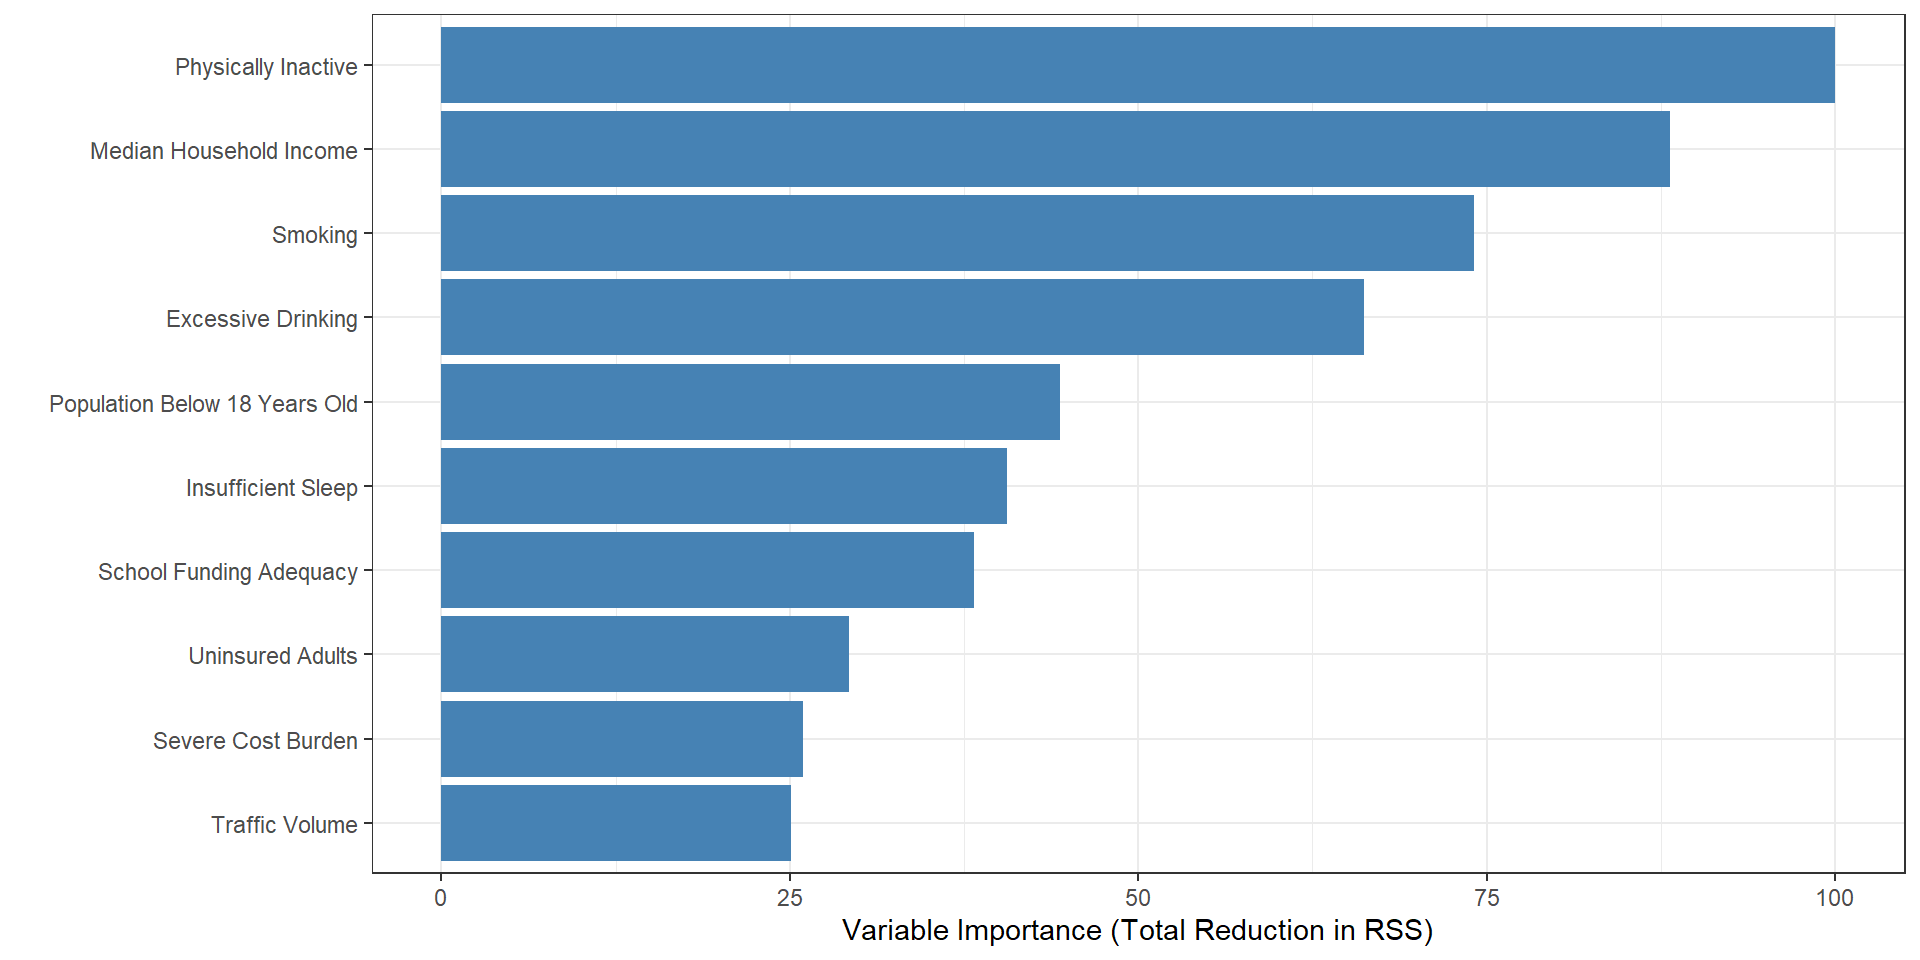
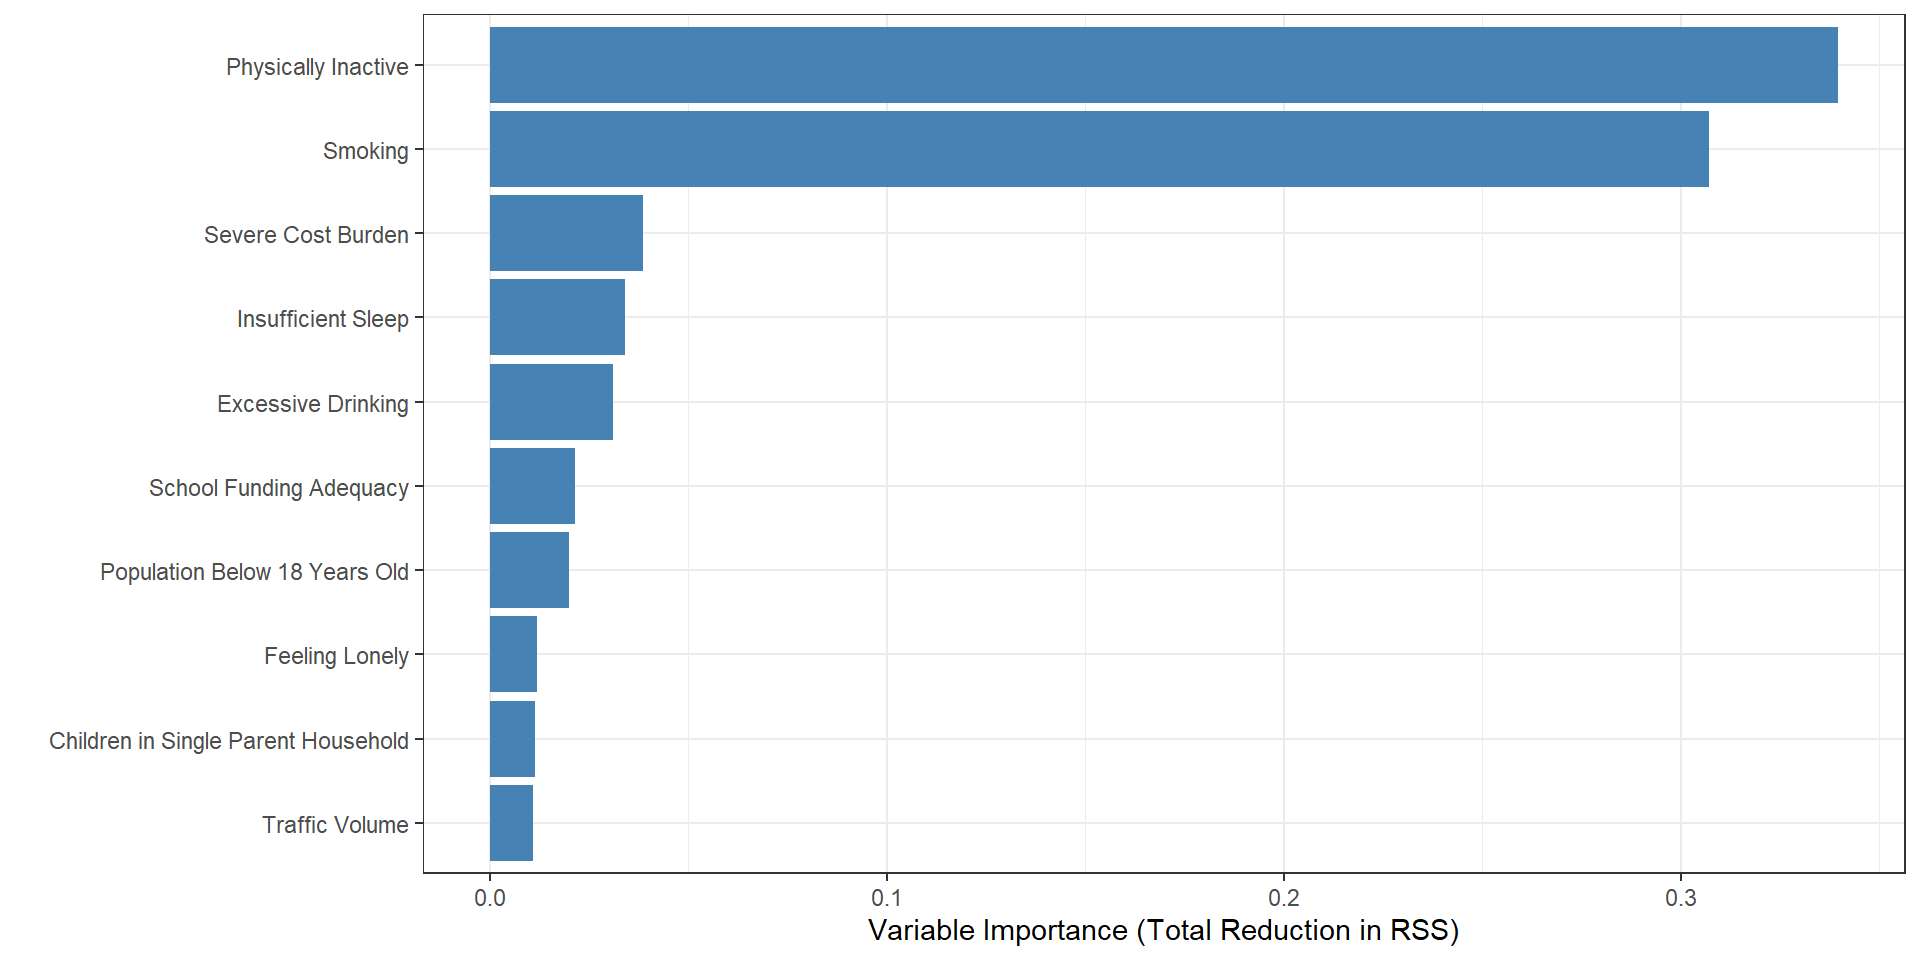
helen no change

diff --git a/final-pres.html b/final-pres.html
@@ -172,92 +172,116 @@ Helen Peng, Anvith Thumma, and Jordan Faustin
 <h2>Obesity rates are consistently higher in the Midwest and the South compared to the West Coast and the Northeast.</h2>
 
 <img data-src="final-pres_files/figure-revealjs/obesity_map-1.png" class="quarto-figure quarto-figure-center r-stretch" width="960"></section>
-<section id="clustering-u.s.-counties-by-obesity-food-access-and-inactivity" class="slide level2">
-<h2>Clustering U.S. Counties by Obesity, Food Access, and Inactivity</h2>
-
-<img data-src="final-pres_files/figure-revealjs/clustering-1.png" class="quarto-figure quarto-figure-center r-stretch" width="960"></section>
-<section id="key-attributes-of-each-cluster" class="slide level2">
-<h2>Key Attributes of Each Cluster</h2>
-<div class="cell" data-layout-align="center">
-<div class="cell-output-display">
-<table class="caption-top">
-<colgroup>
-<col style="width: 6%">
-<col style="width: 10%">
-<col style="width: 18%">
-<col style="width: 18%">
-<col style="width: 18%">
-<col style="width: 15%">
-<col style="width: 11%">
-</colgroup>
-<thead>
-<tr class="header">
-<th style="text-align: left;">Cluster</th>
-<th style="text-align: right;">Cluster Size</th>
-<th style="text-align: right;">Adults with Obesity (%)</th>
-<th style="text-align: right;">Food Environment Index</th>
-<th style="text-align: right;">Physically Inactive (%)</th>
-<th style="text-align: right;">Access To Parks (%)</th>
-<th style="text-align: right;">Days Above 90F</th>
-</tr>
-</thead>
-<tbody>
-<tr class="odd">
-<td style="text-align: left;">1</td>
-<td style="text-align: right;">1645</td>
-<td style="text-align: right;">40.70</td>
-<td style="text-align: right;">6.97</td>
-<td style="text-align: right;">29.80</td>
-<td style="text-align: right;">20.09</td>
-<td style="text-align: right;">220.37</td>
-</tr>
-<tr class="even">
-<td style="text-align: left;">2</td>
-<td style="text-align: right;">1130</td>
-<td style="text-align: right;">35.98</td>
-<td style="text-align: right;">7.97</td>
-<td style="text-align: right;">23.24</td>
-<td style="text-align: right;">29.48</td>
-<td style="text-align: right;">138.92</td>
-</tr>
-<tr class="odd">
-<td style="text-align: left;">3</td>
-<td style="text-align: right;">47</td>
-<td style="text-align: right;">42.37</td>
-<td style="text-align: right;">3.16</td>
-<td style="text-align: right;">34.72</td>
-<td style="text-align: right;">14.34</td>
-<td style="text-align: right;">266.71</td>
-</tr>
-<tr class="even">
-<td style="text-align: left;">4</td>
-<td style="text-align: right;">322</td>
-<td style="text-align: right;">29.74</td>
-<td style="text-align: right;">8.70</td>
-<td style="text-align: right;">18.75</td>
-<td style="text-align: right;">45.79</td>
-<td style="text-align: right;">90.81</td>
-</tr>
-</tbody>
-</table>
-</div>
-</div>
-<p>From the clustering, we see that most of the U.S. has low park access. We thought that improving park access could help reduce inactivity. But in hotter regions like Clusters 1 and 3 in the Southeast, indoor facilities should be prioritized because of the extreme heat. This is one recommendation, and more will come later.</p>
-</section>
 <section id="surprisingly-the-food-environment-index-does-not-rank-among-the-top-predictors-of-county-level-obesity-rates." class="slide level2">
 <h2>Surprisingly, the Food Environment Index does not rank among the top predictors of county-level obesity rates.</h2>
+<div class="cell" data-layout-align="center">
+<div class="cell-output cell-output-stdout">
+<pre><code>[1] train-rmse:26.721271+0.027726   test-rmse:26.721922+0.302733 
+Multiple eval metrics are present. Will use test_rmse for early stopping.
+Will train until test_rmse hasn't improved in 10 rounds.
 
+[2] train-rmse:18.835047+0.020243   test-rmse:18.853828+0.241221 
+[3] train-rmse:13.333281+0.014519   test-rmse:13.372760+0.207601 
+[4] train-rmse:9.502497+0.009921    test-rmse:9.577665+0.170939 
+[5] train-rmse:6.845494+0.007426    test-rmse:6.962113+0.159328 
+[6] train-rmse:5.012291+0.007469    test-rmse:5.206668+0.132908 
+[7] train-rmse:3.759924+0.012623    test-rmse:4.063540+0.123431 
+[8] train-rmse:2.917820+0.011814    test-rmse:3.347753+0.114603 
+[9] train-rmse:2.360306+0.015337    test-rmse:2.922007+0.110498 
+[10]    train-rmse:1.992565+0.025688    test-rmse:2.683371+0.097790 
+[11]    train-rmse:1.751703+0.025015    test-rmse:2.540085+0.100169 
+[12]    train-rmse:1.581639+0.037127    test-rmse:2.461863+0.096569 
+[13]    train-rmse:1.471110+0.041436    test-rmse:2.429718+0.091541 
+[14]    train-rmse:1.388591+0.050331    test-rmse:2.409286+0.089806 
+[15]    train-rmse:1.311556+0.047617    test-rmse:2.404215+0.089652 
+[16]    train-rmse:1.263186+0.048739    test-rmse:2.400896+0.086390 
+[17]    train-rmse:1.219320+0.044108    test-rmse:2.396649+0.089693 
+[18]    train-rmse:1.162333+0.051894    test-rmse:2.395930+0.090251 
+[19]    train-rmse:1.118122+0.050217    test-rmse:2.394589+0.092655 
+[20]    train-rmse:1.074979+0.048775    test-rmse:2.395919+0.092239 
+[21]    train-rmse:1.037538+0.046170    test-rmse:2.398202+0.093687 
+[22]    train-rmse:1.007087+0.040825    test-rmse:2.397992+0.096029 
+[23]    train-rmse:0.971531+0.033371    test-rmse:2.400481+0.101662 
+[24]    train-rmse:0.936523+0.034684    test-rmse:2.403653+0.103039 
+[25]    train-rmse:0.907870+0.034247    test-rmse:2.401277+0.104586 
+[26]    train-rmse:0.878684+0.038417    test-rmse:2.402568+0.101985 
+[27]    train-rmse:0.844505+0.033387    test-rmse:2.401094+0.101487 
+[28]    train-rmse:0.819990+0.032941    test-rmse:2.401166+0.100043 
+[29]    train-rmse:0.799475+0.036064    test-rmse:2.403660+0.097880 
+Stopping. Best iteration:
+[19]    train-rmse:1.118122+0.050217    test-rmse:2.394589+0.092655</code></pre>
+</div>
+
+</div>
 <img data-src="final-pres_files/figure-revealjs/vip-1.png" class="quarto-figure quarto-figure-center r-stretch" width="960"></section>
-<section id="beta-models" class="slide level2">
-<h2>Beta Models</h2>
+<section id="linear-regression-model" class="slide level2">
+<h2>Linear Regression Model</h2>
+<div class="cell" data-layout-align="center">
+<div class="cell-output cell-output-stdout">
+<pre><code>
+Call:
+lm(formula = logit_obesity ~ food_environment_index + percent_physically_inactive, 
+    data = data_2025)
 
-<img data-src="final-pres_files/figure-revealjs/beta_models-1.png" class="quarto-figure quarto-figure-center r-stretch" width="960"></section>
+Residuals:
+     Min       1Q   Median       3Q      Max 
+-0.75721 -0.07708  0.00752  0.08352  0.45894 
+
+Coefficients:
+                              Estimate Std. Error t value Pr(&gt;|t|)    
+(Intercept)                 -1.3849054  0.0456149 -30.361  &lt; 2e-16 ***
+food_environment_index       0.0109729  0.0037740   2.907  0.00369 ** 
+percent_physically_inactive  0.0308874  0.0008354  36.974  &lt; 2e-16 ***
+---
+Signif. codes:  0 '***' 0.001 '**' 0.01 '*' 0.05 '.' 0.1 ' ' 1
+
+Residual standard error: 0.1317 on 1672 degrees of freedom
+Multiple R-squared:  0.5548,    Adjusted R-squared:  0.5542 
+F-statistic:  1042 on 2 and 1672 DF,  p-value: &lt; 2.2e-16</code></pre>
+</div>
+<div class="cell-output cell-output-stdout">
+<pre><code>
+Call: rlm(formula = logit_obesity ~ food_environment_index + percent_physically_inactive, 
+    data = data_2025)
+Residuals:
+      Min        1Q    Median        3Q       Max 
+-0.772368 -0.079898  0.002538  0.077796  0.450896 
+
+Coefficients:
+                            Value    Std. Error t value 
+(Intercept)                  -1.3962   0.0432   -32.3408
+food_environment_index        0.0147   0.0036     4.1236
+percent_physically_inactive   0.0304   0.0008    38.5002
+
+Residual standard error: 0.1177 on 1672 degrees of freedom</code></pre>
+</div>
+</div>
+</section>
+<section id="model-comparsion" class="slide level2">
+<h2>Model Comparsion</h2>
+<div class="cell" data-layout-align="center">
+<div class="cell-output cell-output-stdout">
+<pre><code>RMSE Simple Huber: 38.9651 </code></pre>
+</div>
+<div class="cell-output cell-output-stdout">
+<pre><code>RMSE XGBoost: 1.16334 </code></pre>
+</div>
+</div>
+</section>
 <section id="recommendations" class="slide level2">
 <h2>Recommendations</h2>
 <ul>
 <li><p>Prioritize the young population by targeting environments that shape long-term health behaviors early in life.</p></li>
 <li><p>Enhance sidewalk infrastructure across all clusters to promote walkability, encourage physical activity, and support safe routes for children and families.</p></li>
 <li><p>Invest in school funding to strengthen the local food environment index and promote healthy habits—such as walking to school and accessing nutritious, affordable meals.</p></li>
+</ul>
+</section>
+<section id="appendix" class="slide level2">
+<h2>Appendix</h2>
+<ul>
+<li>Correlation Matrix</li>
+<li>Diagnostic Plots for Linear Regression Models</li>
+<li></li>
 </ul>
 
 </section>
